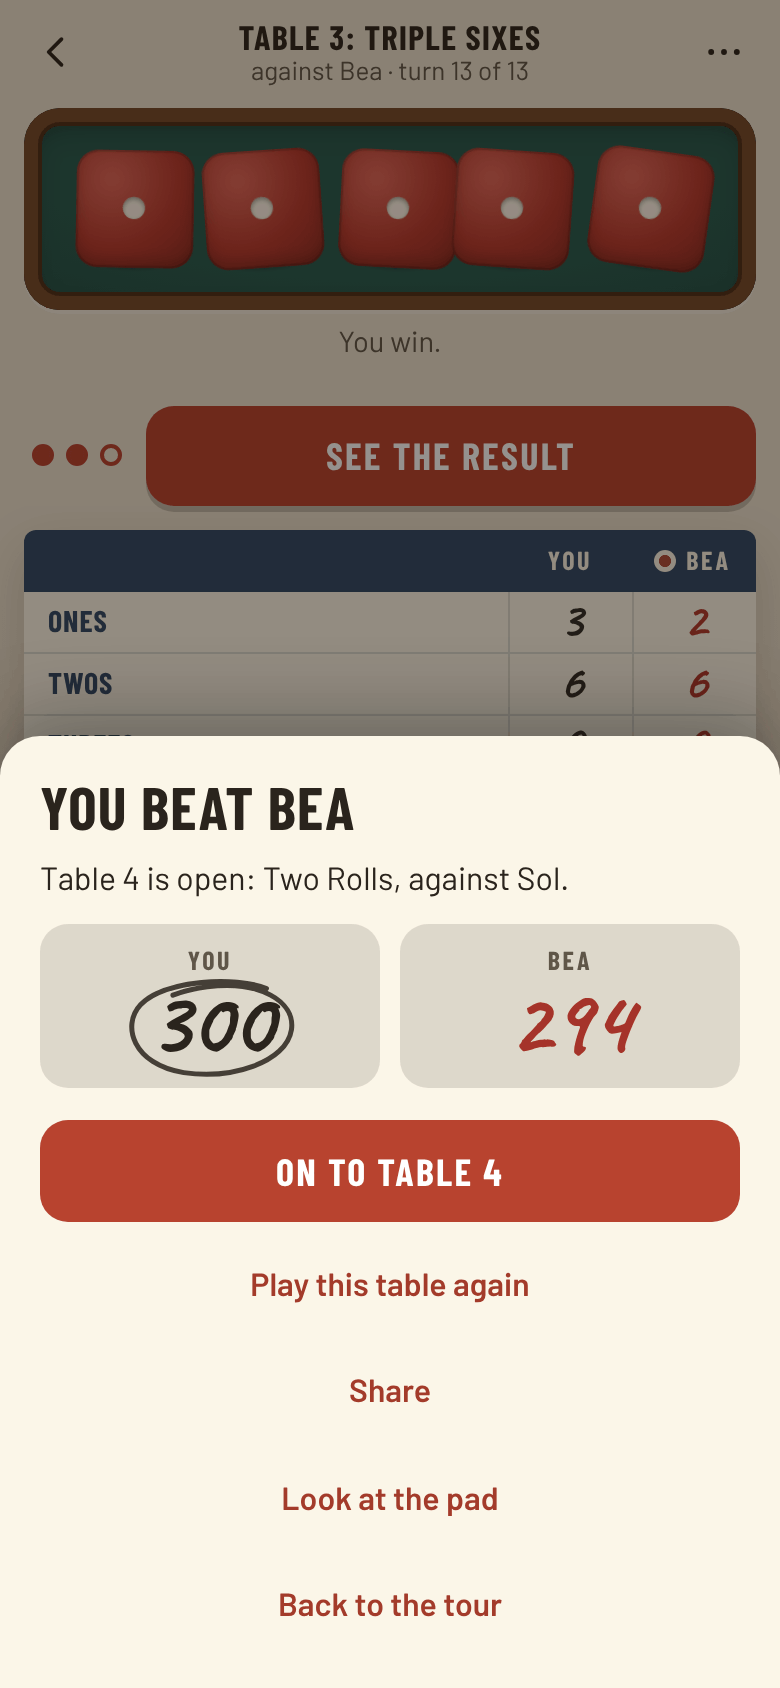
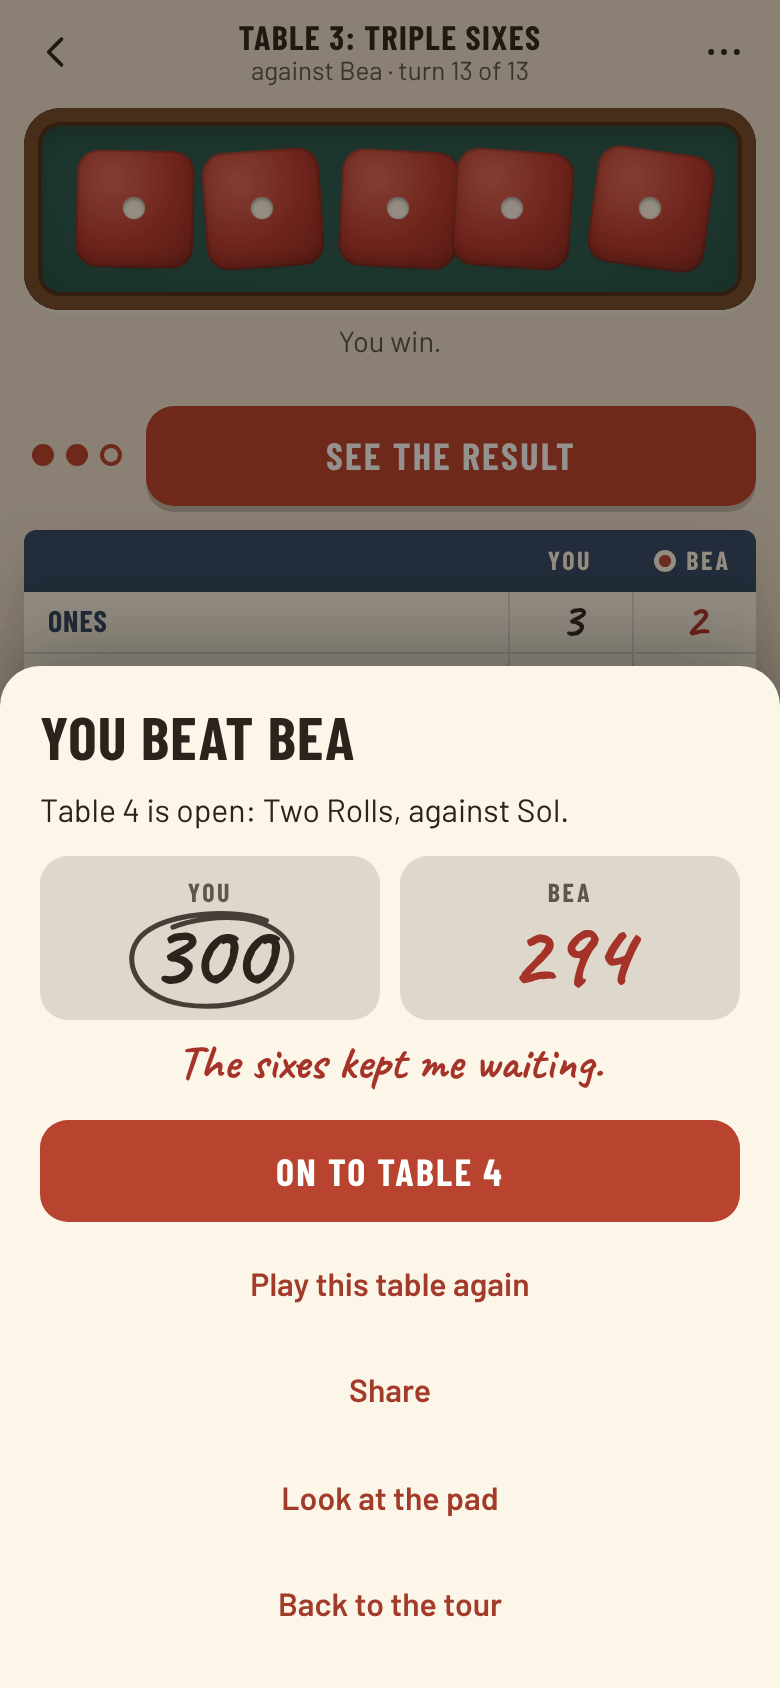
Each opponent has a word at the end of a game, in red pencil under the scores: one for winning, one for losing and one for a tie
Answers "24 end-of-game lines, one set for each opponent", built as drafted. The result said who won and what decided it, but the opponent had nothing to say. Now each of the eight has three lines (Pip: Beginner's luck. Mine, I mean. / I kept all the fours. Was that wrong? / Is that allowed? Let's do it again., and so on up to the Dealer's The house doesn't do draws. Deal again.), written under the scores in the red of their score, and read out by a screen reader with their name in front. At a friend's table, today's table and in quick games too; not at Two players, where the other side is a person. The tie, close-game, friend's table and Two players steps check the lines, their colour and that a two-player result carries none from the game before; the result's screen-reader description includes it. The README's picture of a won game is redrawn with Bea's line.

Claude-Session: https://claude.ai/code/session_01PQbLNX15TRuoVSp8xd8he3

Changed region(s): [[0.0, 0.3697, 1.0, 0.6469]]

diff --git a/js/tour.js b/js/tour.js
@@ -1,6 +1,7 @@
 // The tour: eight tables, each with its own twist on the rules and a sharper opponent than the last.
 // Beat an opponent to move on to the next table. An opponent's `beaten` line, if it has one, replaces its `line` once
-// you've beaten it at its table.
+// you've beaten it at its table. What it `says` at the end of a game, in red pencil under the scores: when it wins, loses
+// or ties.
 
 import { mulberry32 } from './rng.js';
 
@@ -38,7 +39,8 @@ function hotBoxes(seed) {
 export const TABLES = [
   {
     board: CLASSIC,
-    who: { name: 'Pip', line: 'New to the game. Keeps whatever there’s most of.', colour: '#5b8c5a' },
+    who: { name: 'Pip', line: 'New to the game. Keeps whatever there’s most of.', colour: '#5b8c5a',
+      says: { wins: 'Beginner’s luck. Mine, I mean.', loses: 'I kept all the fours. Was that wrong?', ties: 'Is that allowed? Let’s do it again.' } },
     play: { look: false, slip: 0.65, slipBy: 20 },
   },
   {
@@ -48,7 +50,8 @@ export const TABLES = [
       boxes: boxes({ f1: { id: 'evens', kind: 'evens', face: undefined } }),
       bonus: { at: 72, worth: 35 },
     },
-    who: { name: 'Maud', line: 'Plays it safe and takes the points in front of her.', colour: '#8a6d3b' },
+    who: { name: 'Maud', line: 'Plays it safe and takes the points in front of her.', colour: '#8a6d3b',
+      says: { wins: 'Points in the hand. Never fails.', loses: 'You took chances. They came off. Hmph.', ties: 'All square. Evens, you might say.' } },
     play: { patience: 0.35, bonus: 0.3, slip: 0.63 },
   },
   {
@@ -58,7 +61,8 @@ export const TABLES = [
       boxes: boxes({ f6: { mult: 3 } }),
       bonus: { at: 99, worth: 35 },
     },
-    who: { name: 'Bea', line: 'Patient. Waits for the big numbers.', colour: '#b0503a' },
+    who: { name: 'Bea', line: 'Patient. Waits for the big numbers.', colour: '#b0503a',
+      says: { wins: 'Sixes, every time.', loses: 'The sixes kept me waiting.', ties: 'Patience got us both here.' } },
     play: { patience: 0.6, bonus: 0.6, slip: 0.44, style: { boost: { face: 1.1 } } },
   },
   {
@@ -68,7 +72,8 @@ export const TABLES = [
       boxes: boxes(), rolls: 2,
       bonus: { at: 52, worth: 35 },
     },
-    who: { name: 'Sol', line: 'Quick hands. Not many slips.', colour: '#3f6f9a' },
+    who: { name: 'Sol', line: 'Quick hands. Not many slips.', colour: '#3f6f9a',
+      says: { wins: 'Two rolls is plenty.', loses: 'Too quick for my own good.', ties: 'Fast, and still level.' } },
     play: { patience: 0.8, bonus: 0.8, slip: 0.35, style: { boost: { chance: 0.7 } } },
   },
   {
@@ -77,7 +82,8 @@ export const TABLES = [
       blurb: 'In the bottom section, every 1 counts as whatever number scores best. In the top section a 1 is just a\u00a01. The extra 100 for another five of a kind needs five dice showing the same number.',
       boxes: boxes(), wild: true,
     },
-    who: { name: 'Jules', line: 'Knows the odds and rarely forgets them.', colour: '#7a4f8f' },
+    who: { name: 'Jules', line: 'Knows the odds and rarely forgets them.', colour: '#7a4f8f',
+      says: { wins: 'The odds said so.', loses: 'Against the odds. Well played.', ties: 'Less likely than five of a kind. Again?' } },
     play: { patience: 0.9, bonus: 0.8, slip: 0.3, endgame: true, style: { boost: { five: 1.8 } } },
   },
   {
@@ -86,7 +92,8 @@ export const TABLES = [
       blurb: 'Two boxes, picked at random each time you sit down, score three times over. When one is a number box, the top-section bonus rises so three of each number still earns it.',
       hot: true,
     },
-    who: { name: 'Otto', line: 'Steady. Hardly puts a foot wrong.', colour: '#2f7d74' },
+    who: { name: 'Otto', line: 'Steady. Hardly puts a foot wrong.', colour: '#2f7d74',
+      says: { wins: 'Steady does it.', loses: 'A foot wrong, somewhere.', ties: 'Neither of us put a foot wrong.' } },
     play: { patience: 1, bonus: 1.2, slip: 0.14, endgame: true },
   },
   {
@@ -95,7 +102,8 @@ export const TABLES = [
       blurb: 'Three of a kind becomes Two pairs: add up the four paired dice (four of one number count as two pairs). Chance becomes the Low road: 30 if the dice total 12 or less.',
       boxes: boxes({ three: { id: 'pairs', kind: 'pairs' }, chance: { id: 'low', kind: 'low' } }),
     },
-    who: { name: 'Wren', line: 'Sharp, and getting sharper.', colour: '#9a7a2f' },
+    who: { name: 'Wren', line: 'Sharp, and getting sharper.', colour: '#9a7a2f',
+      says: { wins: 'Sharper every game.', loses: 'Noted. I’ll be sharper.', ties: 'Sharp, both of us. Again.' } },
     play: { patience: 1, bonus: 1, slip: 0.05, endgame: true },
   },
   {
@@ -105,7 +113,8 @@ export const TABLES = [
       boxes: boxes(Object.fromEntries(['three', 'four', 'full', 'small', 'large', 'five', 'chance'].map(id => [id, { mult: 2 }]))),
       rolls: 4,
     },
-    who: { name: 'The Dealer', line: 'Hasn’t lost a game in years.', beaten: 'Hadn’t lost a game in years.', colour: '#3a3a44' },
+    who: { name: 'The Dealer', line: 'Hasn’t lost a game in years.', beaten: 'Hadn’t lost a game in years.', colour: '#3a3a44',
+      says: { wins: 'The house usually does.', loses: 'Years, that was. Well played.', ties: 'The house doesn’t do draws. Deal again.' } },
     play: { patience: 1, bonus: 1, slip: 0, endgame: true },
   },
 ];

diff --git a/js/app.js b/js/app.js
@@ -372,6 +372,10 @@ function finish(lead = '') {
   const theirs = friend && g.score !== null ? `<div class="friend"><span>Your friend</span><b>${g.score}</b></div>` : '';
   $('result-scores').classList.toggle('three', !!theirs);
   $('result-scores').innerHTML = `<div><span>You</span>${tile(you, you >= them)}</div>${theirs}<div class="them"><span>${escape(name)}</span>${tile(them, them >= you)}</div>`;
+  // What the opponent makes of it, in their red pencil under the scores (js/tour.js), named for a screen reader.
+  const says = TABLES[g.opp].who.says;
+  $('result-says').innerHTML = `<span class="vh">${escape(name)}: </span>${escape(won ? says.loses : tie ? says.ties : says.wins)}`;
+  $('result-says').hidden = false;
   $('result-best').textContent = best;
   $('result-best').hidden = !best;
   const next = $('b-next');
@@ -403,6 +407,7 @@ function finishTwo(g, lead, a, r) {
   const tile = (n, ringed) => (ringed ? `<b class="ringed">${n}${ring()}</b>` : `<b>${n}</b>`);
   $('result-scores').classList.remove('three');
   $('result-scores').innerHTML = `<div><span>${escape(black)}</span>${tile(a, a >= r)}</div><div class="them"><span>${escape(red)}</span>${tile(r, r >= a)}</div>`;
+  $('result-says').hidden = true; // nobody at the table but the two of you
   $('result-best').hidden = true;
   $('b-next').textContent = 'Play again';
   $('b-next').onclick = () => again(g);

diff --git a/index.html b/index.html
@@ -132,12 +132,13 @@
 
   <div class="sheet" id="sheet-result" hidden>
     <div class="scrim"></div>
-    <section class="panel" role="dialog" aria-modal="true" aria-labelledby="result-n result-title" aria-describedby="result-line result-why result-scores">
+    <section class="panel" role="dialog" aria-modal="true" aria-labelledby="result-n result-title" aria-describedby="result-line result-why result-scores result-says">
       <p class="eyebrow" id="result-n" hidden></p>
       <h2 id="result-title"></h2>
       <p id="result-line"></p>
       <p class="why" id="result-why" hidden></p>
       <div class="scores" id="result-scores"></div>
+      <p class="says" id="result-says" hidden></p>
       <p class="best" id="result-best" hidden></p>
       <button type="button" class="primary" id="b-next"></button>
       <button type="button" class="plain" id="b-again">Play this table again</button>

diff --git a/css/app.css b/css/app.css
@@ -712,6 +712,9 @@ body[data-screen='home'] .toast { top: auto; bottom: calc(16px + env(safe-area-i
 .scores span { font: 700 13px var(--cond); letter-spacing: 0.1em; text-transform: uppercase; color: var(--muted); }
 .scores b { font: 700 46px/1 var(--hand); }
 .panel .best { margin: 8px 0 0; text-align: center; font: 700 24px/1.1 var(--hand); }
+/* The opponent's word on the game, in their red pencil. */
+.panel .says { margin: 8px 0 0; text-align: center; font: 700 24px/1.1 var(--hand); color: var(--red-score); }
+.panel .says[hidden] { display: none; }
 .scores .them b { color: var(--red-score); }
 /* At a friend's table, their score between yours and the opponent's. */
 .scores.three { grid-template-columns: 1fr 1fr 1fr; }

diff --git a/sw.js b/sw.js
@@ -8,7 +8,7 @@
 // fingerprint of every file in SHELL: change any of them and test/e2e.mjs fails until FILES is changed to match (it
 // says what to), which changes this file, so every copy is made whole again at once.
 const CACHE = 'full-house-v6'; // bump the number when the file list changes
-const FILES = '40e78c6d'; // test/e2e.mjs checks this
+const FILES = '9c129bf6'; // test/e2e.mjs checks this
 const SHELL = [
   './', 'index.html', 'carry.js', 'icon.svg', 'manifest.webmanifest', 'icon-180.png', 'icon-192.png',
   'css/app.css',

diff --git a/README.md b/README.md
@@ -31,7 +31,7 @@
 - **Opponents who plan.** Five dice can only land 252 different ways, so an opponent works out, for every possible roll, which dice to keep for the best result over the rest of its turn. It values each box by what it scores now, what it might be worth later, and the top-section bonus. The early opponents leave parts of that out and make mistakes on purpose, though only close calls a person might get wrong. Past Pip, the further up the tour, the more patient an opponent is and the fewer slips it makes. On classic rules Pip averages about 137, and the Dealer about 244 (`node dev/strength.mjs 600 classic`); the best possible play averages 254.59 (Tom Verhoeff, *Optimal Solitaire Yahtzee Player*, Eindhoven University of Technology, 1999).
 - **Watch them play.** Their red dice tumble in your tray and their scores go into the pad in red pencil. Tap the dice to hurry a turn along, or choose Quick in the game's menu, or Just their score to see only where their dice end up and what they score. On a computer's wide screen (or a tablet held sideways), their card sits under Roll while you play: who they are, their line, and the table's twist.
 - **Sound, if you want it.** Off until you switch on Sound in the game's menu: then the dice rattle as they're thrown, busier the more of them there are, and a score goes in with a pencil scratch, all made in the browser with no sound files. On a phone that can (Chrome on Android can; an iPhone can't), holding a die gives a short buzz.
-- **The result.** Who won and, when it wasn't within 20 points, the biggest gap between the two cards in one line: the top section, the bonus, five of a kind or the rest of the bottom section ("Maud got the 35 bonus; you were 9 short."). Look at the pad puts the result aside to read the finished pad, and See the result brings it back. Share opens the phone's share sheet (or, where there isn't one, copies) with a line like "Full House, table 6: Hot Boxes. I beat Otto, 288 to 251." and a link that opens the same table with the same dice for whoever gets it (see A friend's table).
+- **The result.** Who won and, when it wasn't within 20 points, the biggest gap between the two cards in one line: the top section, the bonus, five of a kind or the rest of the bottom section ("Maud got the 35 bonus; you were 9 short."). Under the scores the opponent has a word in red pencil, one for winning, one for losing and one for a tie ("The sixes kept me waiting." when you beat Bea). Look at the pad puts the result aside to read the finished pad, and See the result brings it back. Share opens the phone's share sheet (or, where there isn't one, copies) with a line like "Full House, table 6: Hot Boxes. I beat Otto, 288 to 251." and a link that opens the same table with the same dice for whoever gets it (see A friend's table).
 - **Today's table.** One table a day, picked by the date, with the same dice for everyone who plays it that day (and the same opponent's game, which comes from those dice too). It's open from the first visit, whatever you've beaten, and unlocks nothing. Your first game there each day, won, lost or given up, is the one that counts: the tour shows today's score and how many days you've won; another go is just practice. Share sends a link to that table and those dice, which opens them on any day.
 - **Quick game.** Classic rules against anyone you've met on the tour, once you've beaten Pip at table 1. Once you've beaten two tables, the rules of any table you've beaten instead, if you choose (the header says which: Quick game: Wild Ones). Quick games never count on the tour.
 - **A friend's table.** A link with a table and a game's dice in it opens that table's card, whatever you've beaten, with the score to beat: "The same dice your friend had". Your rolls and your opponent's whole game come from the dice in the link, so you play exactly the luck your friend had, and the result shows your score, your friend's and the opponent's. It never counts on the tour.
